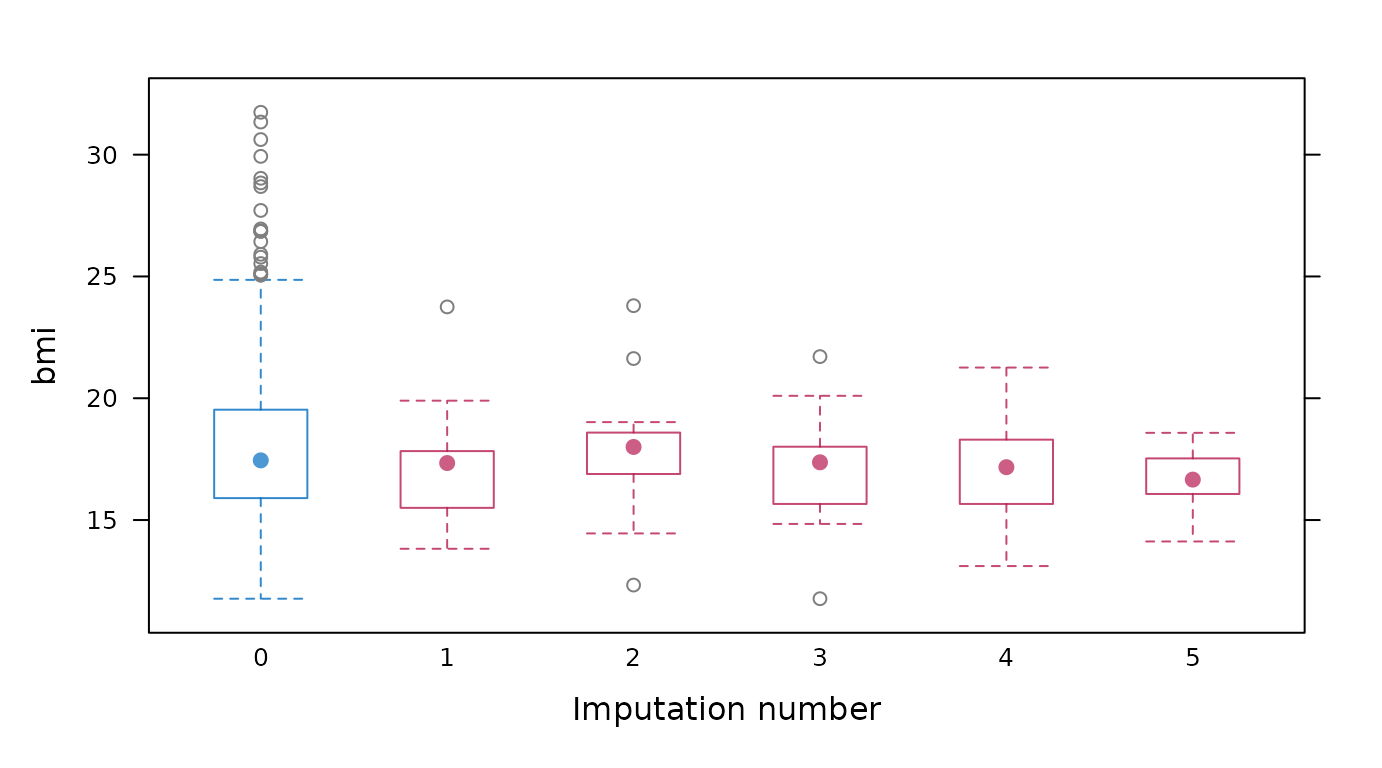
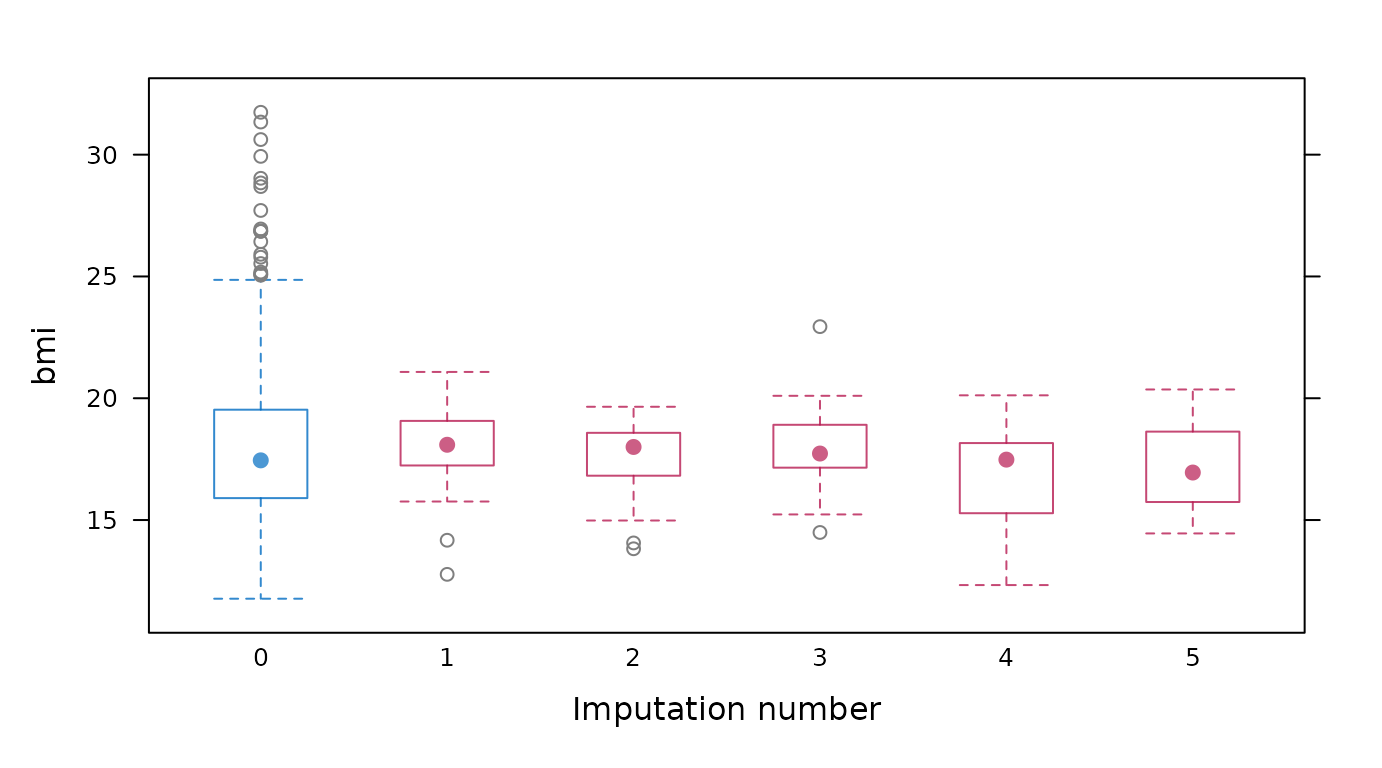
Built site for ggmice: 0.0.1.9000@2ea1dbc

diff --git a/index.html b/index.html
@@ -125,7 +125,7 @@
 <p><img src="reference/figures/README-example-1.png" width="100%"></p>
 <div class="sourceCode" id="cb4"><pre class="downlit sourceCode r">
 <code class="sourceCode R"><span class="co"># impute the incomplete data</span>
-<span class="va">imp</span> <span class="op">&lt;-</span> <span class="fu"><a href="https://amices.org/mice/reference/mice.html" class="external-link">mice</a></span><span class="op">(</span><span class="va">dat</span>, m <span class="op">=</span> <span class="fl">1</span>, printFlag <span class="op">=</span> <span class="cn">FALSE</span><span class="op">)</span>
+<span class="va">imp</span> <span class="op">&lt;-</span> <span class="fu"><a href="https://amices.org/mice/reference/mice.html" class="external-link">mice</a></span><span class="op">(</span><span class="va">dat</span>, m <span class="op">=</span> <span class="fl">1</span>, seed <span class="op">=</span> <span class="fl">1</span>, printFlag <span class="op">=</span> <span class="cn">FALSE</span><span class="op">)</span>
 <span class="co"># visualize the imputed data</span>
 <span class="fu"><a href="reference/ggmice.html">ggmice</a></span><span class="op">(</span><span class="va">imp</span>, <span class="fu"><a href="https://ggplot2.tidyverse.org/reference/aes.html" class="external-link">aes</a></span><span class="op">(</span><span class="va">age</span>, <span class="va">bmi</span><span class="op">)</span><span class="op">)</span> <span class="op">+</span> <span class="fu"><a href="https://ggplot2.tidyverse.org/reference/geom_point.html" class="external-link">geom_point</a></span><span class="op">(</span><span class="op">)</span> </code></pre></div>
 <p><img src="reference/figures/README-example-2.png" width="100%"></p>
@@ -185,14 +185,15 @@
 <div class="dev-status">
 <h2 data-toc-skip>Dev status</h2>
 <ul class="list-unstyled">
-<li><a href="https://github.com/amices/ggmice/blob/main/DESCRIPTION" class="external-link"><img src="https://img.shields.io/github/r-package/v/amices/ggmice.svg" alt="GitHub R package version"></a></li>
 <li><a href="https://cran.r-project.org/package=ggmice" class="external-link"><img src="https://www.r-pkg.org/badges/version/ggmice" alt="CRAN_Status_Badge"></a></li>
+<li><a href="https://github.com/amices/ggmice/blob/main/DESCRIPTION" class="external-link"><img src="https://img.shields.io/github/r-package/v/amices/ggmice?color=yellow&amp;label=dev" alt="GitHub R package version"></a></li>
 <li><a href="https://lifecycle.r-lib.org/articles/stages.html#experimental" class="external-link"><img src="https://img.shields.io/badge/lifecycle-experimental-orange.svg" alt="Lifecycle: experimental"></a></li>
-<li><a href="https://www.gnu.org/licenses/gpl-3.0.en.html" class="external-link"><img src="https://img.shields.io/github/license/amices/ggmice.svg" alt="GitHub"></a></li>
 <li><a href="https://app.codecov.io/gh/amices/ggmice?branch=main" class="external-link"><img src="https://codecov.io/gh/amices/ggmice/branch/main/graph/badge.svg" alt="Codecov test coverage"></a></li>
-<li><a href="https://fair-software.eu" class="external-link"><img src="https://img.shields.io/badge/fair--software.eu-%E2%97%8F%20%20%E2%97%8F%20%20%E2%97%8F%20%20%E2%97%8F%20%20%E2%97%8B-yellow" alt="fair-software.eu"></a></li>
 <li><a href="https://bestpractices.coreinfrastructure.org/projects/6036" class="external-link"><img src="https://bestpractices.coreinfrastructure.org/projects/6036/badge" alt="CII Best Practices"></a></li>
+<li><a href="https://fair-software.eu" class="external-link"><img src="https://img.shields.io/badge/fair--software.eu-%E2%97%8F%20%20%E2%97%8F%20%20%E2%97%8F%20%20%E2%97%8F%20%20%E2%97%8F-green" alt="fair-software.eu"></a></li>
+<li><a href="https://www.gnu.org/licenses/gpl-3.0.en.html" class="external-link"><img src="https://img.shields.io/github/license/amices/ggmice?color=blue" alt="licence"></a></li>
 <li><a href="https://cranlogs.r-pkg.org/badges/grand-total/ggmice" class="external-link"><img src="https://cranlogs.r-pkg.org/badges/grand-total/ggmice" alt="Total CRAN downloads"></a></li>
+<li><a href="https://doi.org/10.5281/zenodo.6532702" class="external-link"><img src="https://zenodo.org/badge/DOI/10.5281/zenodo.6532702.svg" alt="DOI"></a></li>
 </ul>
 </div>
 
